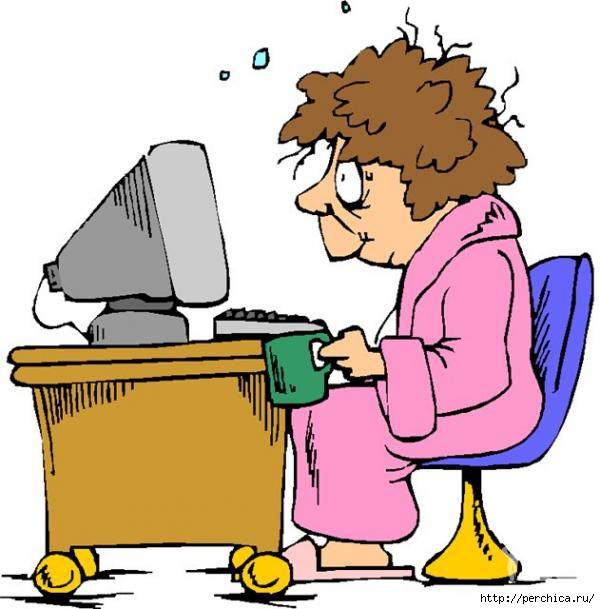
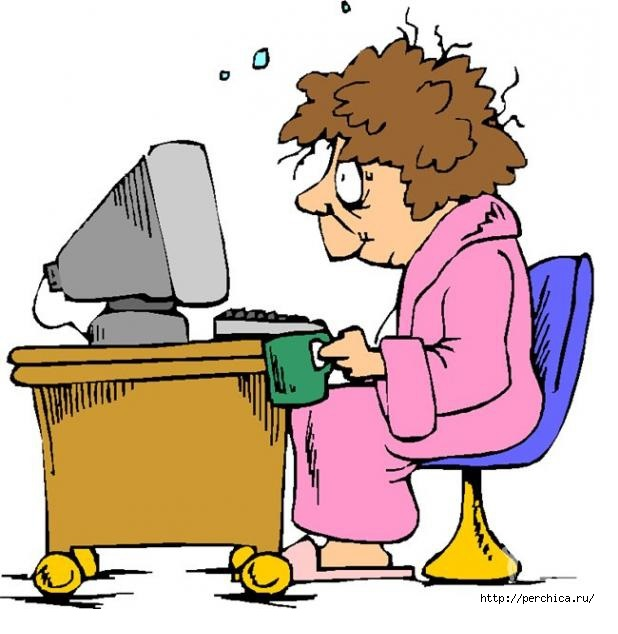
fix image

diff --git a/main.php b/main.php
@@ -21,7 +21,8 @@
 
             <div class="data">
                 <div class="myImg">
-                    <?php  echo '<img src="/img/php.jpg">'; ?>                    
+                    <?php  echo '<img width=300 src="./img/php.jpg">'; ?> 
+                     
                 </div>
 
                 <div class="fullname">
